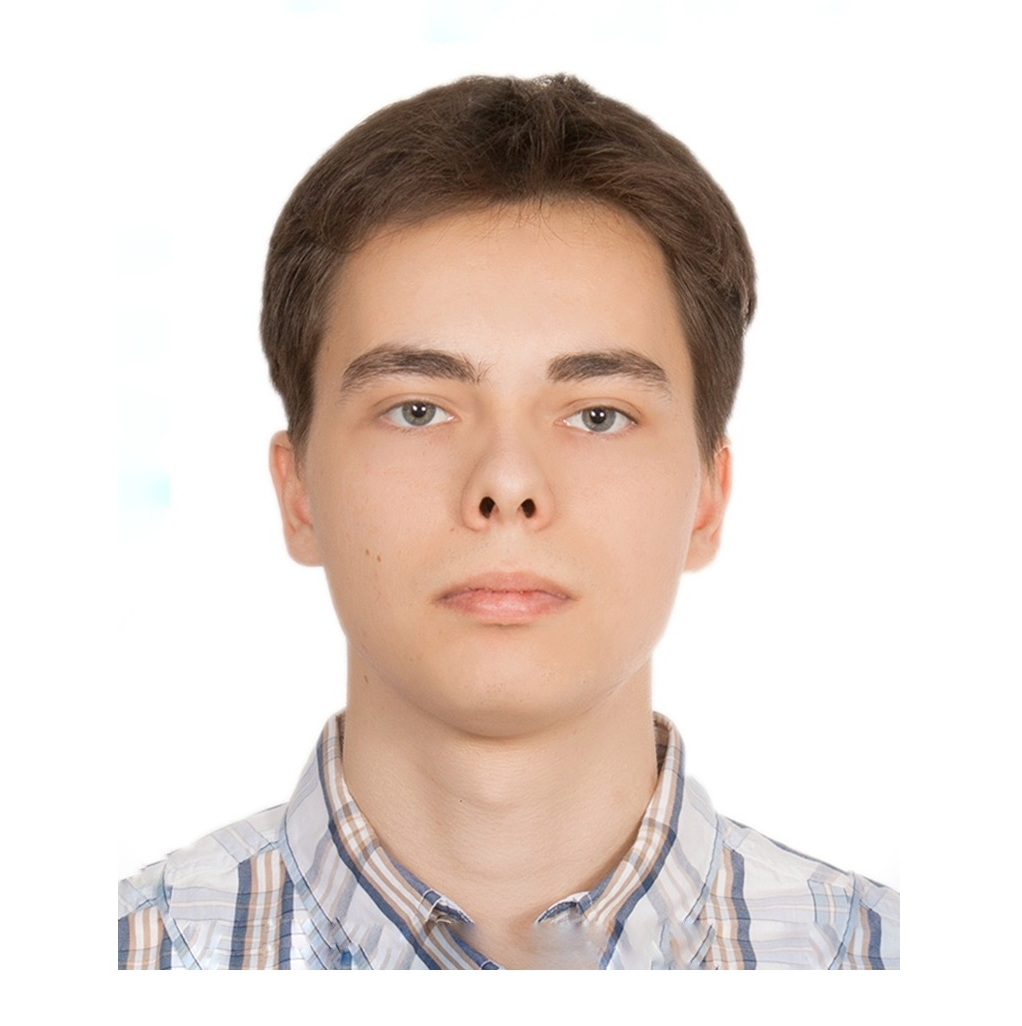
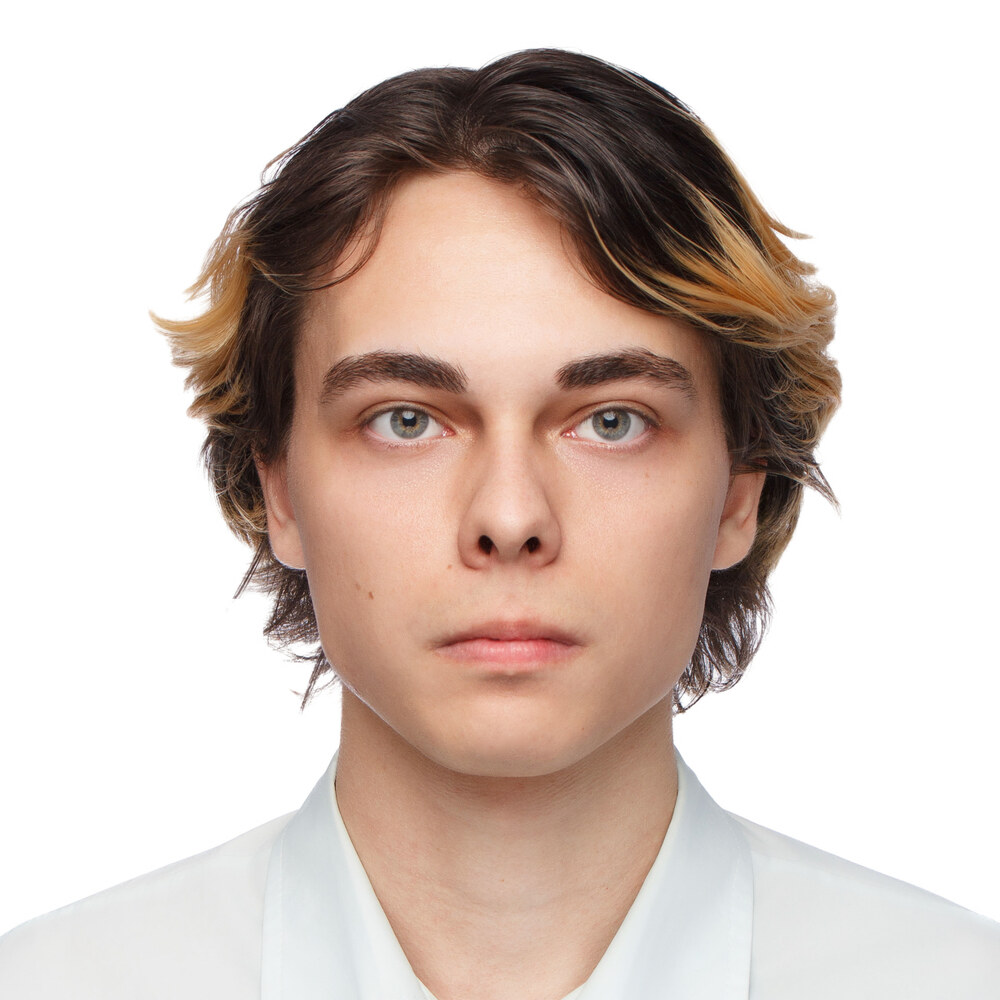
feat: :sparkles: update photo

diff --git a/src/sections/projects/java.ru.tex b/src/sections/projects/java.ru.tex
@@ -4,7 +4,7 @@
 \twocolumnsection{
    \begin{projects}
       \project
-         {MyFilmList}{Ноябрь 2024 - Январь 2025}
+         {MyFilmList}{Ноябрь 2024 -- Январь 2025}
          {\github{maxbarsukov/MyFilmList}}
          {Социальная платформа каталогизации фильмов}
          {Spring Framework, PostgreSQL, Minio, Next.js, shadcn}
@@ -13,7 +13,7 @@
 {
    \begin{projects}
       \project
-         {rhizome}{Март 2025 - Июнь 2025}
+         {rhizome}{Март 2025 -- Июнь 2025}
          {\github{maxbarsukov/rhizome}}
          {Распределённая графовая СУБД с ACID-транзакциями и multi-raft шардированием}
          {Rust, Kotlin, gRPC, Multi-Raft, MVCC, Percolator, SSI}

diff --git a/src/sections/headline/java.ru.tex b/src/sections/headline/java.ru.tex
@@ -1,5 +1,5 @@
 \par{
-Я -- целеустремленный студент 4 курса и backend-разработчик с опытом работы c Java.
+Я -- целеустремлённый студент 4 курса и backend-разработчик с опытом работы с Java.
 
 Ищу возможность развивать свои навыки в динамичной и инновационной среде.
 Стремлюсь к постоянному обучению и внедрению лучших практик разработки, ценю стабильность и позитивную атмосферу в рабочем коллективе.

diff --git a/src/sections/projects/java.en.tex b/src/sections/projects/java.en.tex
@@ -4,7 +4,7 @@
 \twocolumnsection{
    \begin{projects}
       \project
-         {MyFilmList}{November 2024 - January 2025}
+         {MyFilmList}{November 2024 -- January 2025}
          {\github{maxbarsukov/MyFilmList}}
          {Social movie cataloging platform}
          {Spring Framework, PostgreSQL, Minio, Next.js, shadcn}
@@ -13,7 +13,7 @@
 {
    \begin{projects}
       \project
-         {rhizome}{March 2025 - June 2025}
+         {rhizome}{March 2025 -- June 2025}
          {\github{maxbarsukov/rhizome}}
          {Distributed graph database with ACID transactions and multi-raft sharding}
          {Rust, Kotlin, gRPC, Multi-Raft, MVCC, Percolator, SSI}

diff --git a/src/sections/education/common.ru.tex b/src/sections/education/common.ru.tex
@@ -3,7 +3,7 @@
 \sectionTitle{Образование}{\faGraduationCap}
 \vspace{0.8em}
 \begin{scholarship}
-   \scholarshipentry{2022-2026}
+   \scholarshipentry{2022--2026}
      {\textbf{Университет ИТМО} \newline
      Бакалавриат по программе \textbf{<<Системное и прикладное программное обеспечение>>}. \newline
      Факультет программной инженерии и компьютерной техники (ФПИиКТ). \newline

diff --git a/src/sections/interests/java.ru.tex b/src/sections/interests/java.ru.tex
@@ -6,6 +6,6 @@
 
     \textbf{Веб-разработка:} & Ruby, RoR, Phoenix, GraphQL, PWA, SSR, Server/Backend-Driven UI \\
     \textbf{Computer Science:} & Дизайн языков программирования, DSL, Компиляторы и интерпретаторы,\\
-                               & ФП, Распределенные вычисления \\
+                               & ФП, Распределённые вычисления \\
 
 \end{tabular}

diff --git a/src/sections/education/common.en.tex b/src/sections/education/common.en.tex
@@ -3,7 +3,7 @@
 \sectionTitle{Education}{\faGraduationCap}
 \vspace{0.8em}
 \begin{scholarship}
-   \scholarshipentry{2022-2026}
+   \scholarshipentry{2022--2026}
      {\textbf{ITMO University} \newline
      Bachelor's degree program in \textbf{<<System and Application Software>>}. \newline
      Faculty of Software Engineering and Computer Systems (FSE\&CS). \newline

diff --git a/src/cv-ruby.ru.tex b/src/cv-ruby.ru.tex
@@ -5,7 +5,7 @@
 %  Primary CV is Java/Kotlin: cv-java.ru.tex / cv-java.en.tex
 % ============================================================
 
-\documentclass[localFont,alternative,10pt]{cv}
+\documentclass[localFont,alternative,10pt,roundphoto]{cv}
 \name{Барсуков}{Максим}
 \tagline{Ruby Developer | Ruby-разработчик}
 \photo{3.5cm}{img/photo}

diff --git a/src/cv-ruby.en.tex b/src/cv-ruby.en.tex
@@ -5,7 +5,7 @@
 %  Primary CV is Java/Kotlin: cv-java.ru.tex / cv-java.en.tex
 % ============================================================
 
-\documentclass[localFont,alternative,10pt]{cv}
+\documentclass[localFont,alternative,10pt,roundphoto]{cv}
 \name{Max}{Barsukov}
 \tagline{Ruby Developer}
 \photo{3.5cm}{img/photo}

diff --git a/src/cv-java.ru.tex b/src/cv-java.ru.tex
@@ -1,6 +1,6 @@
 % !TEX TS-program = luatex
 
-\documentclass[localFont,alternative,10pt]{cv}
+\documentclass[localFont,alternative,10pt,roundphoto]{cv}
 \name{Барсуков}{Максим}
 \tagline{Java Developer | Java-разработчик}
 \photo{3.5cm}{img/photo}

diff --git a/src/cv-java.en.tex b/src/cv-java.en.tex
@@ -1,6 +1,6 @@
 % !TEX TS-program = luatex
 
-\documentclass[localFont,alternative,10pt]{cv}
+\documentclass[localFont,alternative,10pt,roundphoto]{cv}
 \name{Max}{Barsukov}
 \tagline{Java Developer}
 \photo{3.5cm}{img/photo}
